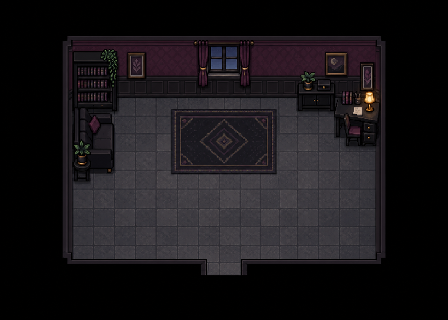
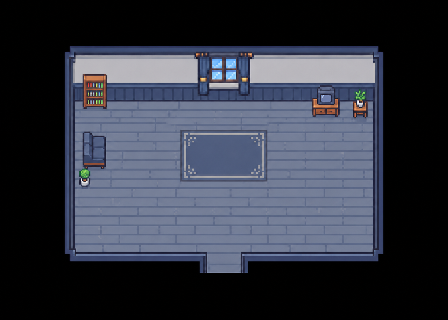
Simplify Gwenn's house and sprite and locate his home on Route 4

diff --git a/src/services/mapLocations.js b/src/services/mapLocations.js
@@ -4,7 +4,7 @@ const labels = {
     route2_maison: 'Maison de Lucie', ville5: 'Blanchecime', ville5_arene: 'Arène de Blanchecime', ville5_shop: 'Boutique de Blanchecime',
     ville5_maison1: 'Maison de Blanchecime', ville5_maison2: 'Maison de Blanchecime',
     ville4: 'Rochebrume', ville4_arene: 'Arène de Rochebrume · Wanda', ville4_shop: 'Boutique de Rochebrume',
-    ville4_maison1: 'Maison de Rochebrume', ville4_maison2: 'Maison de Gwenn',
+    ville4_maison1: 'Maison de Rochebrume', ville4_maison2: 'Maison de Rochebrume', route4_maison: 'Maison de Gwenn · Route 4',
     ville3: 'Clairfontaine', ville3_arene: 'Arène de Clairfontaine · Ana', ville3_shop: 'Boutique de Clairfontaine',
     ville3_maison1: 'Maison de Clairfontaine', ville3_maison2: 'Maison de Clairfontaine',
     gen_route7: 'Route 9', gen_route6: 'Route 10', gen_shop_route10: 'Boutique de la Route 10',
@@ -23,7 +23,7 @@ const labels = {
     route2_maison: 'Lucie’s House', ville5: 'Whitepeak', ville5_arene: 'Whitepeak Gym', ville5_shop: 'Whitepeak Shop',
     ville5_maison1: 'Whitepeak House', ville5_maison2: 'Whitepeak House',
     ville4: 'Miststone', ville4_arene: 'Miststone Gym · Wanda', ville4_shop: 'Miststone Shop',
-    ville4_maison1: 'Miststone House', ville4_maison2: 'Gwenn’s House',
+    ville4_maison1: 'Miststone House', ville4_maison2: 'Miststone House', route4_maison: 'Gwenn’s House · Route 4',
     ville3: 'Clearfountain', ville3_arene: 'Clearfountain Gym · Ana', ville3_shop: 'Clearfountain Shop',
     ville3_maison1: 'Clearfountain House', ville3_maison2: 'Clearfountain House',
     gen_route7: 'Route 9', gen_route6: 'Route 10', gen_shop_route10: 'Route 10 Shop',

diff --git a/src/services/arenaEntrance.js b/src/services/arenaEntrance.js
@@ -13,7 +13,7 @@ export function arenaChampion(mapName, encounterKind, trainerKey = null) {
     name: 'Aspha', city: 'Route 2', cityEn: 'Route 2', portrait: 'aspha-v1.png', accent: '#aec5bd', story: true,
     eyebrow: 'LE DÉFI D’ASPHA', eyebrowEn: 'ASPHA’S CHALLENGE', minimumMs: 3600, portraitMs: 2200
   };
-  if (mapName === 'ville4_maison2' && encounterKind === 'trainer') return {name:'Gwenn',city:'Rochebrume',cityEn:'Miststone',portrait:'gwenn-v1.png',accent:'#baa6d8',story:true,eyebrow:'LE DÉFI DE GWENN',eyebrowEn:'GWENN’S CHALLENGE',minimumMs:3600,portraitMs:2200};
+  if (mapName === 'route4_maison' && encounterKind === 'trainer') return {name:'Gwenn',city:'Route 4',cityEn:'Route 4',portrait:'gwenn-v1.png',accent:'#baa6d8',story:true,eyebrow:'LE DÉFI DE GWENN',eyebrowEn:'GWENN’S CHALLENGE',minimumMs:3600,portraitMs:2200};
   if (mapName === 'route2_maison' && encounterKind === 'trainer') return {
     name: 'Lucie', city: 'Sous l’emprise de l’Aube', cityEn: 'Under the Dawn’s influence',
     portrait: 'lucie-v1.png', accent: '#baa6d8', story: true,

diff --git a/src/services/npcFrames.js b/src/services/npcFrames.js
@@ -39,7 +39,7 @@ export function drawNpcFrame(context, image, frame, x, y, size, actor) {
 // Visual alignment with the dais inlay; server tile interaction/collision stays unchanged.
 export function npcRenderOffset(map, actor) {
   if (map === 'route2' && actor.name === 'aspha_route2') return {x:16,y:0};
-  if (map === 'ville4_maison2' && actor.name === 'gwenn_rochebrume') return {x:16,y:0};
+  if (map === 'route4_maison' && actor.name === 'gwenn_rochebrume') return {x:16,y:0};
   const champions = { ville1_arene: 'moonpunch', ville_safe1_arene: 'hoze', gen_arene5: 'raphael', ville3_arene: 'ana', ville4_arene: 'wanda', ville5_arene: 'sevenp' };
   return Object.hasOwn(champions, map) && champions[map] === actor.name
     ? { x: 16, y: -24 } : { x: 0, y: 0 };

diff --git a/src/services/mapAssets.js b/src/services/mapAssets.js
@@ -2,7 +2,7 @@ const MAP_ASSET_ALIASES = Object.freeze({
     ville5_shop: 'gen_shop1',
     ville5_maison1: 'gen_maison1', ville5_maison2: 'gen_maison2',
     ville4_shop: 'gen_shop1',
-    ville4_maison1: 'gen_maison1', ville4_maison2: 'gwenn_house',
+    ville4_maison1: 'gen_maison1', ville4_maison2: 'gen_maison2', route4_maison: 'gwenn_house',
     ville3_shop: 'gen_shop1',
     ville3_maison1: 'gen_maison1', ville3_maison2: 'gen_maison2',
     gen_shop_route10: 'gen_shop1',

diff --git a/src/services/battleEnvironment.js b/src/services/battleEnvironment.js
@@ -1,6 +1,6 @@
 export function battleEnvironment(mapName, colosseum = false, weather = null, encounter = null) {
   if (colosseum) return 'colosseum';
-  if (mapName === 'ville4_maison2') return 'gwenn-house';
+  if (mapName === 'route4_maison') return 'gwenn-house';
   if (mapName === 'route2_maison') return 'lucie-house';
   if (encounter === 'lake') return 'lake';
   if (mapName === 'ville1_arene') return 'lake-gym';

diff --git a/src/services/worldMusic.js b/src/services/worldMusic.js
@@ -4,6 +4,7 @@ export function worldMusicTrack(map) {
   if (map === 'ville1_arene') return 'mounir-room';
   if (map === 'ville_safe1_arene') return 'hoze-room';
   if (map === 'centre') return 'center';
+  if (map === 'route4_maison') return 'village';
   if (map === 'route2_maison') return 'lucie-room';
   if (map === 'ville3_arene') return 'ana-room';
   if (map === 'gen_arene5') return 'raph-room';
